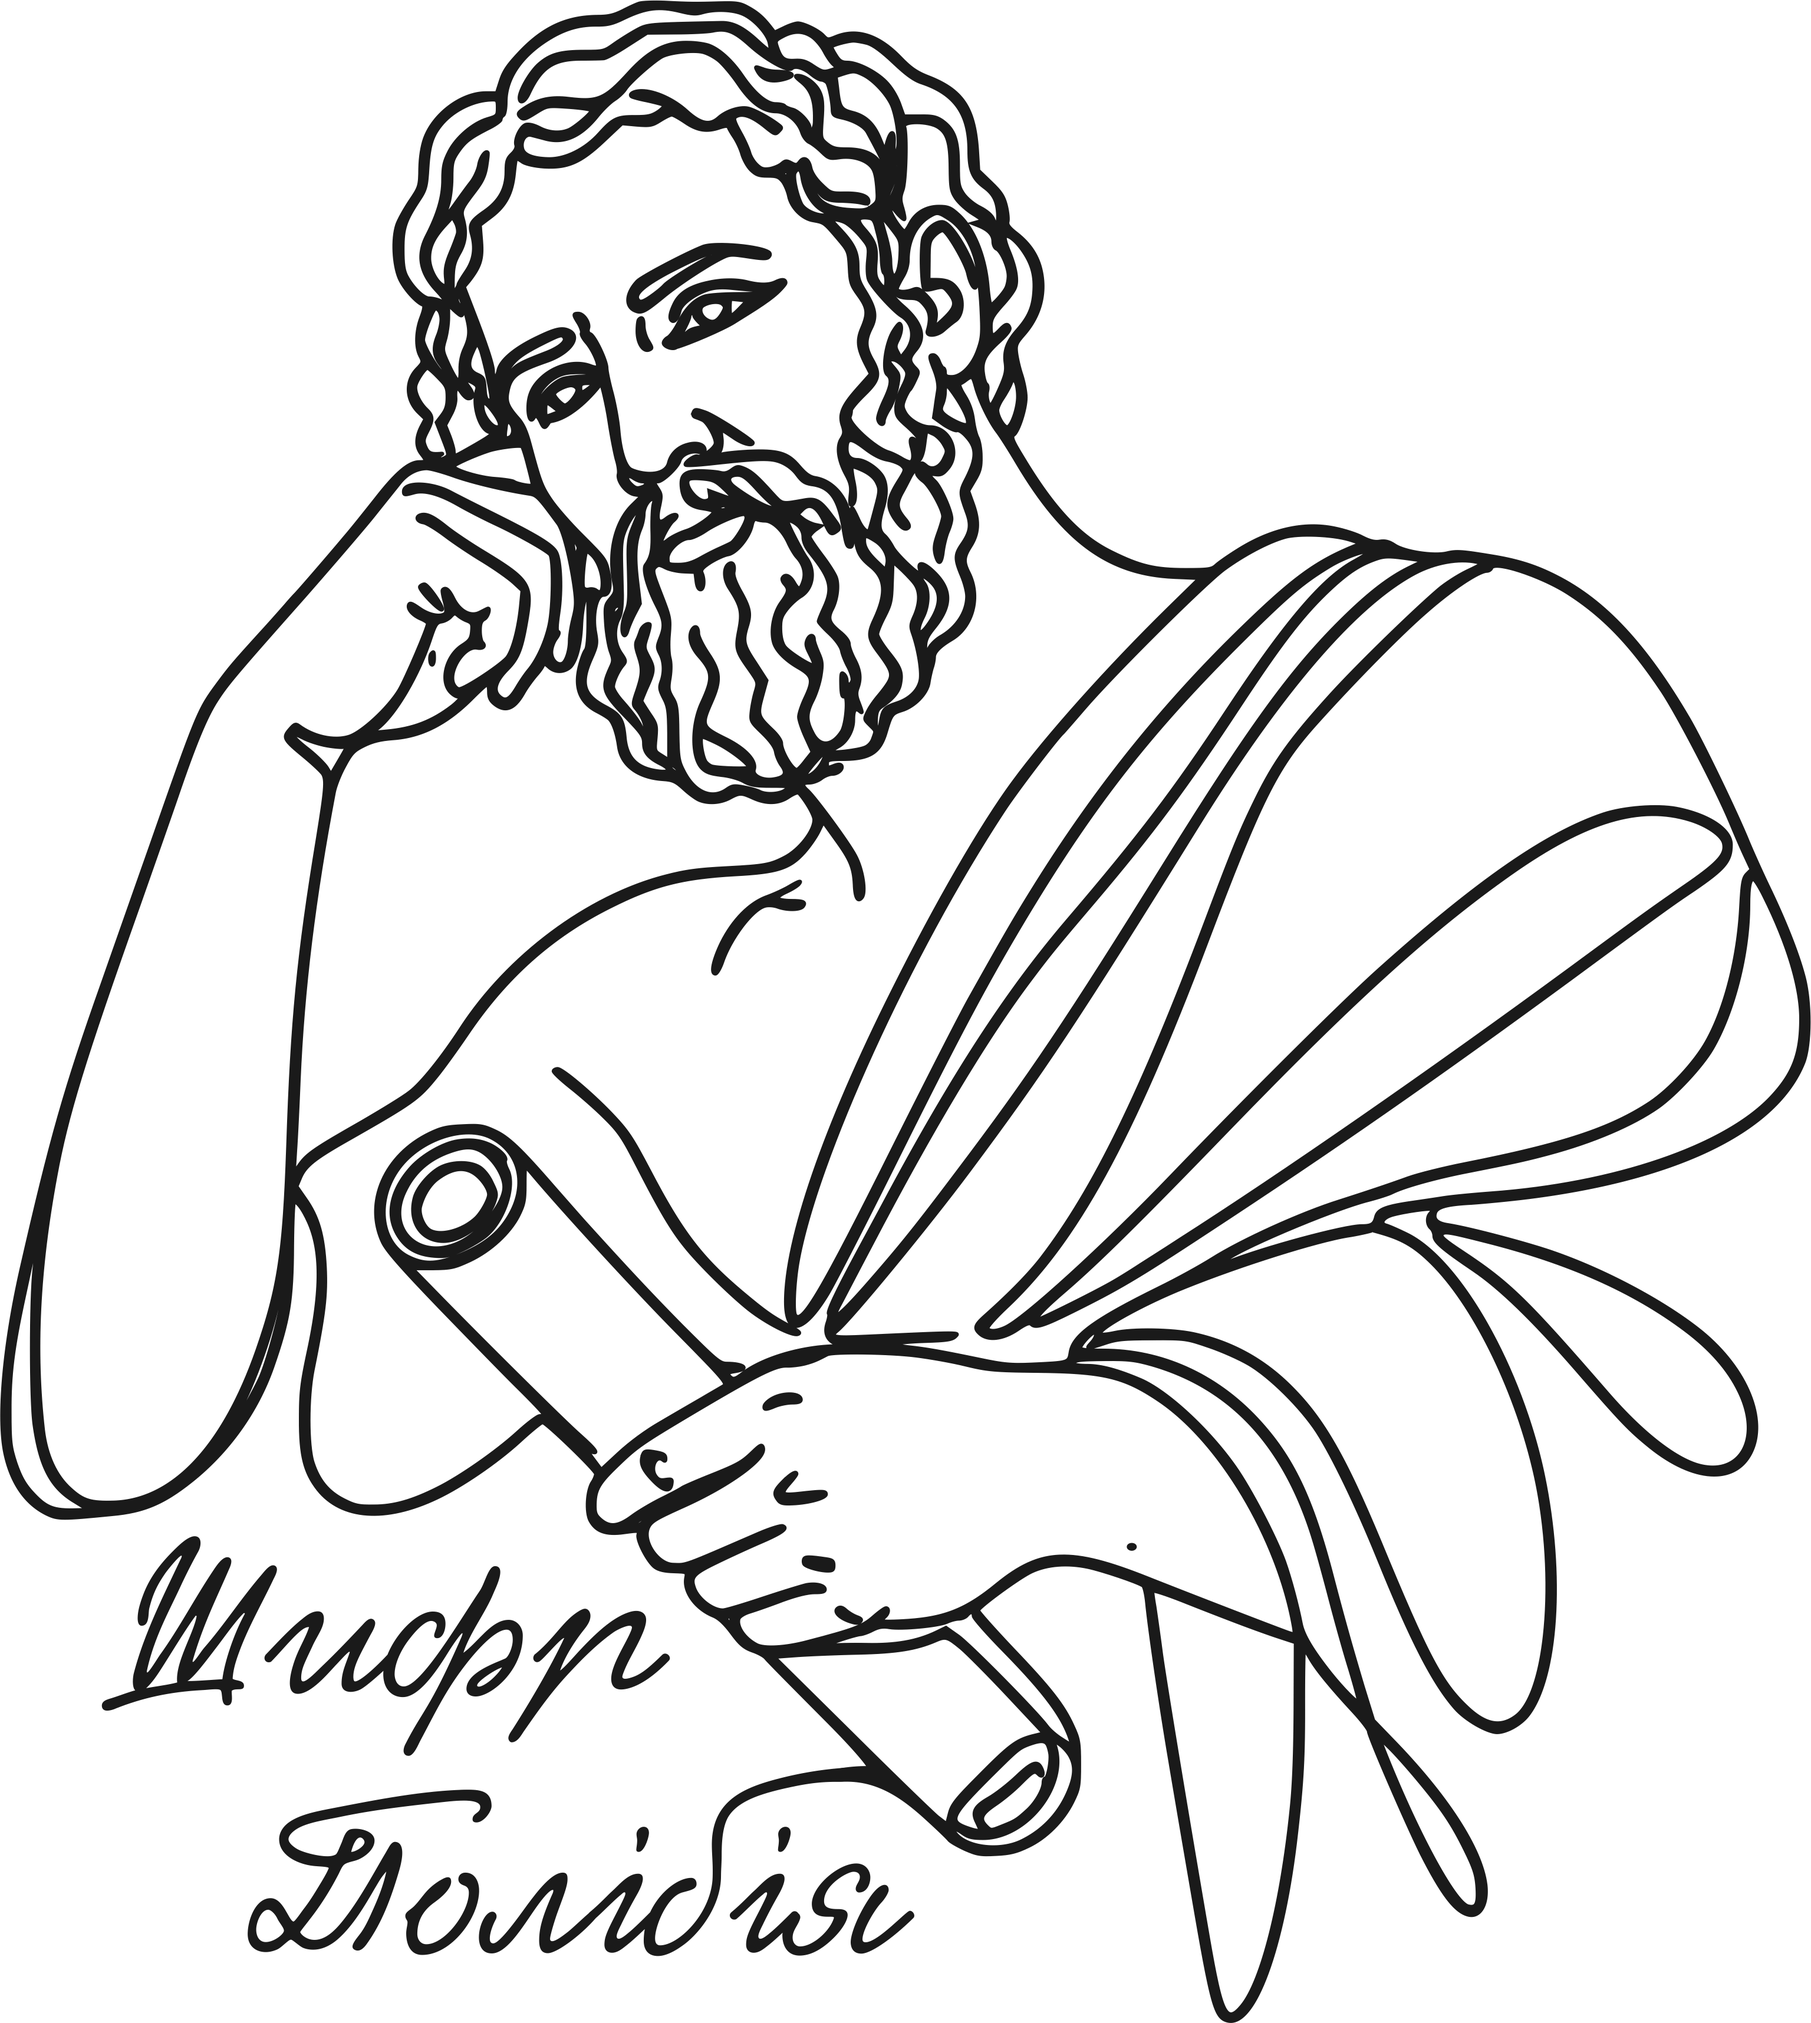
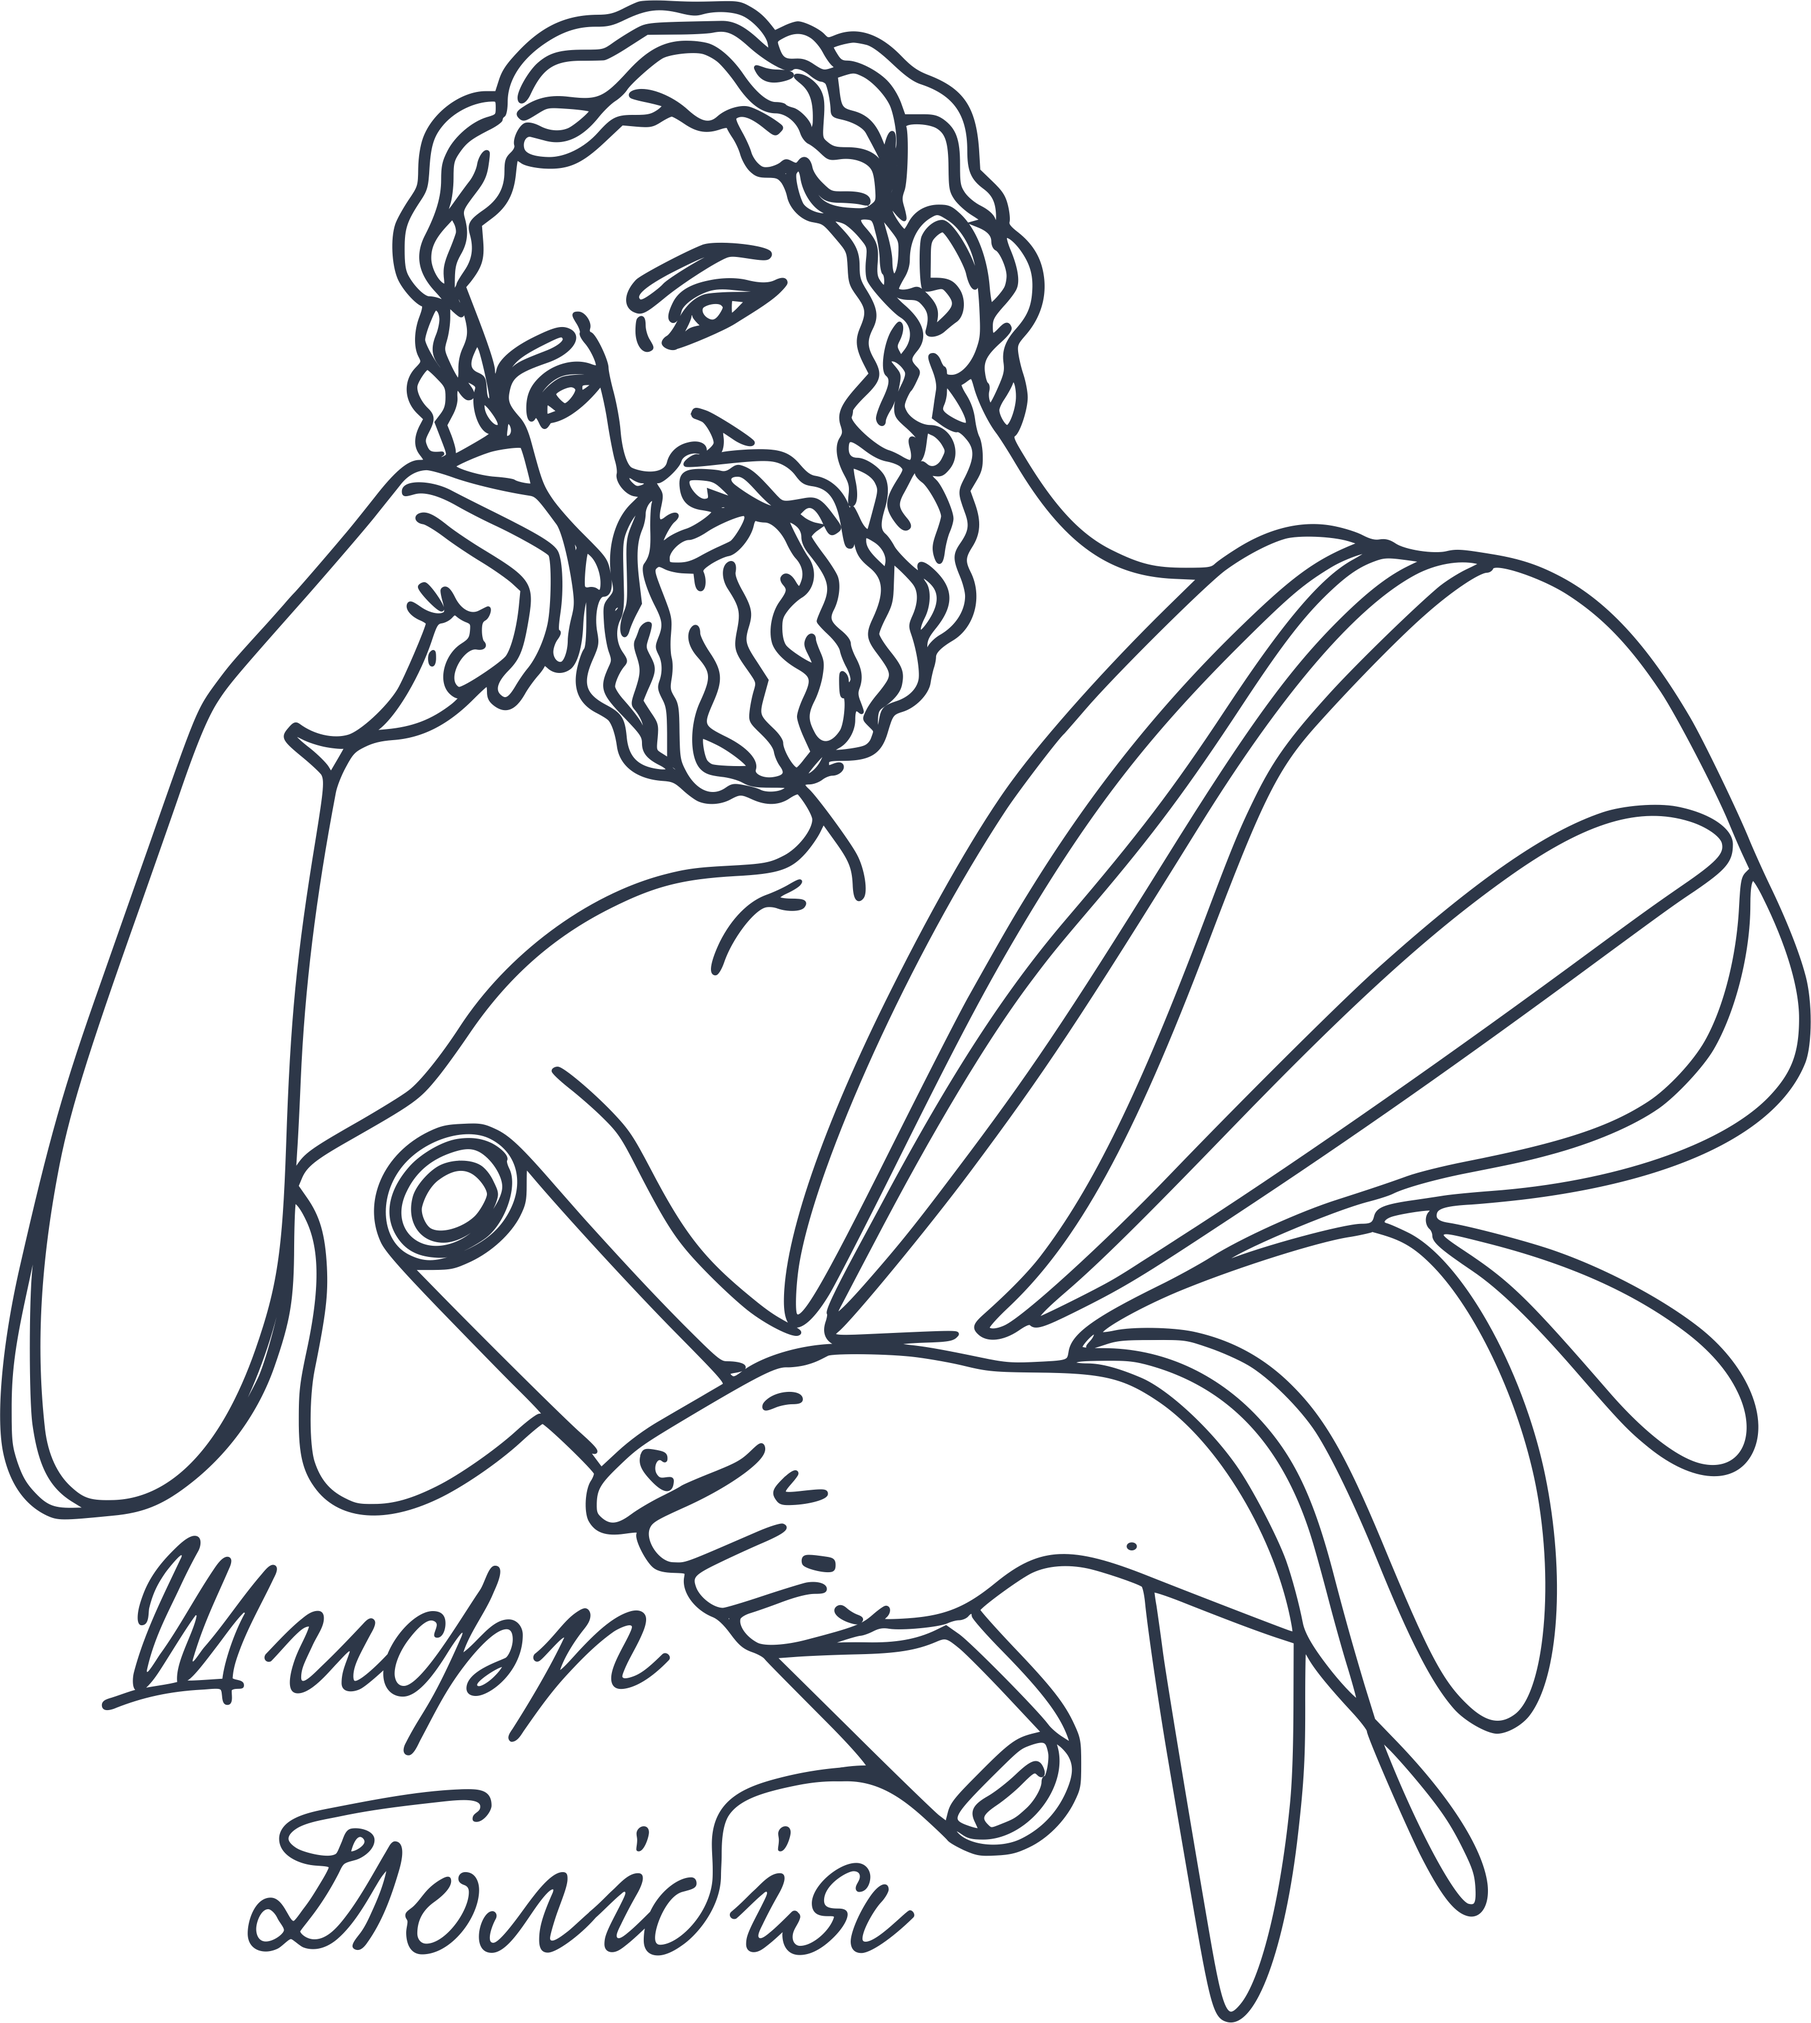
feat: Add PWA functionality, UI fixes, and close button for Polybius

diff --git a/style.css b/style.css
@@ -1,6 +1,6 @@
 :root {
-    --bg-color: rgb(230, 240, 250);
-    --accent-color: #000000;
+    --bg-color: #f0f2f5;
+    --accent-color: #2d3748;
     --red-color: #e53e3e;
     --container-max-width: 600px;
     --line-weight: 2px;
@@ -181,8 +181,10 @@ textarea, #output {
     margin: 10px 0 10px; font-size: 11px; font-weight: 900;
     text-transform: uppercase; color: var(--accent-color); cursor: pointer;
     user-select: none; /* Додамо для кращого UX */
+    -webkit-tap-highlight-color: transparent;
 }
 .checkbox-wrapper input { display: none; }
+.checkbox-wrapper input:focus-visible { outline: none; }
 .toggle {
     width: 44px; height: 24px; background: white;
     border: 2px solid var(--accent-color);
@@ -220,6 +222,37 @@ textarea, #output {
 .wiki-content h4 { margin: 20px 0 10px; text-transform: uppercase; font-weight: 900; }
 .wiki-content strong { color: var(--red-color); }
 
-@media (max-width: 400px) {
+ @media (max-width: 400px) {
     .polybius-master-grid { grid-template-columns: 25px repeat(6, 1fr); grid-template-rows: 25px repeat(6, 1fr); }
+}
+
+/* PWA Close Button */
+.close-app-btn {
+    display: none; /* Hidden by default */
+    position: absolute;
+    top: 15px;
+    right: 15px;
+    width: 30px;
+    height: 30px;
+    background: rgba(0,0,0,0.1);
+    border: none;
+    border-radius: 50%;
+    color: var(--accent-color);
+    font-size: 16px;
+    font-weight: bold;
+    line-height: 30px;
+    text-align: center;
+    cursor: pointer;
+    z-index: 999;
+}
+
+.close-app-btn:hover {
+    background: rgba(0,0,0,0.2);
+}
+
+/* Show the button only when in standalone (PWA) mode */
+@media (display-mode: standalone) {
+    .close-app-btn {
+        display: block;
+    }
 }

diff --git a/sw.js b/sw.js
@@ -1,0 +1,53 @@
+const CACHE_NAME = 'polybius-cipher-cache-v1';
+const urlsToCache = [
+  './', // Cache the index.html
+  './index.html',
+  './style.css',
+  './script.js',
+  './image/Polibius.png',
+  'ico/android-chrome-192x192.png',
+  'ico/android-chrome-512x512.png',
+  'ico/apple-touch-icon.png',
+  'ico/favicon-16x16.png',
+  'ico/favicon-32x32.png',
+  'ico/favicon.ico',
+  './site.webmanifest'
+];
+
+self.addEventListener('install', (event) => {
+  event.waitUntil(
+    caches.open(CACHE_NAME)
+      .then((cache) => {
+        console.log('Opened cache');
+        return cache.addAll(urlsToCache);
+      })
+  );
+});
+
+self.addEventListener('fetch', (event) => {
+  event.respondWith(
+    caches.match(event.request)
+      .then((response) => {
+        // Cache hit - return response
+        if (response) {
+          return response;
+        }
+        return fetch(event.request);
+      })
+  );
+});
+
+self.addEventListener('activate', (event) => {
+  const cacheWhitelist = [CACHE_NAME];
+  event.waitUntil(
+    caches.keys().then((cacheNames) => {
+      return Promise.all(
+        cacheNames.map((cacheName) => {
+          if (cacheWhitelist.indexOf(cacheName) === -1) {
+            return caches.delete(cacheName);
+          }
+        })
+      );
+    })
+  );
+});

diff --git a/index.html b/index.html
@@ -6,9 +6,12 @@
     <title>Шифр Полібія UA</title>
     <link href="https://fonts.googleapis.com/css2?family=Roboto:wght@400;700;900&display=swap" rel="stylesheet">
     <link rel="stylesheet" href="style.css">
+    <link rel="manifest" href="site.webmanifest">
+    <meta name="theme-color" content="#2d3748">
 </head>
 <body>
     <div class="main-wrapper">
+        <button class="close-app-btn" onclick="window.close()">✕</button>
         <img src="image/Polibius.png" class="top-logo" alt="Квадрат Полібія">
 
         <div class="polybius-master-grid" id="polybiusGrid">
@@ -74,5 +77,18 @@
     </div>
 
     <script src="script.js" defer></script>
+    <script>
+        if ('serviceWorker' in navigator) {
+            window.addEventListener('load', () => {
+                navigator.serviceWorker.register('./sw.js')
+                    .then(registration => {
+                        console.log('ServiceWorker registration successful with scope: ', registration.scope);
+                    })
+                    .catch(err => {
+                        console.log('ServiceWorker registration failed: ', err);
+                    });
+            });
+        }
+    </script>
 </body>
 </html>
